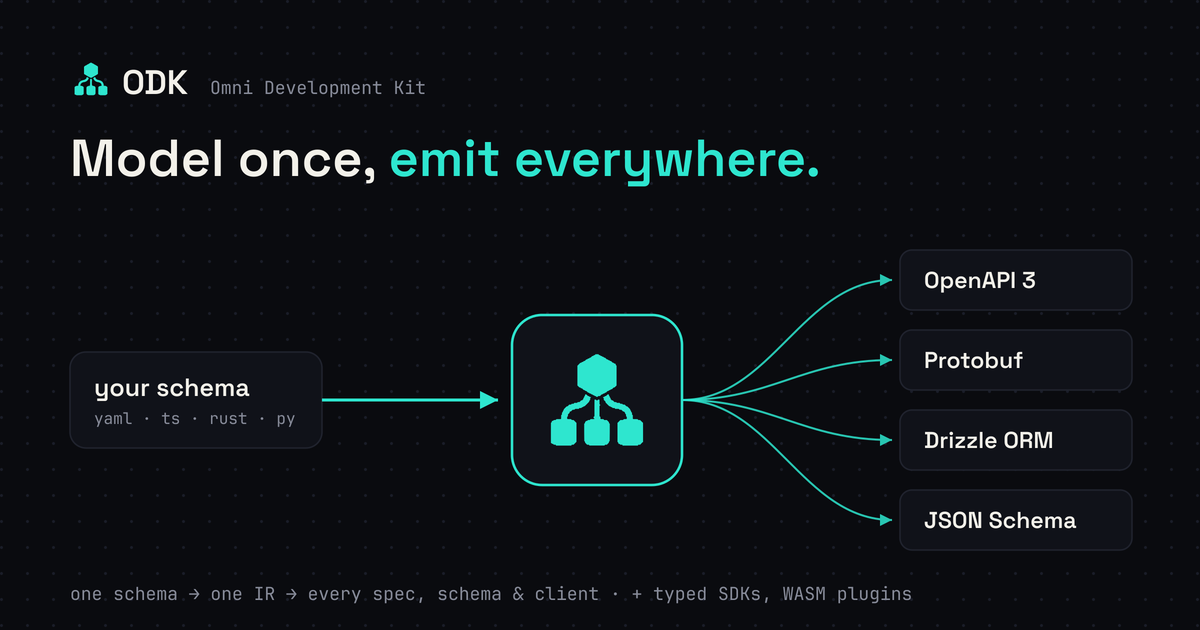
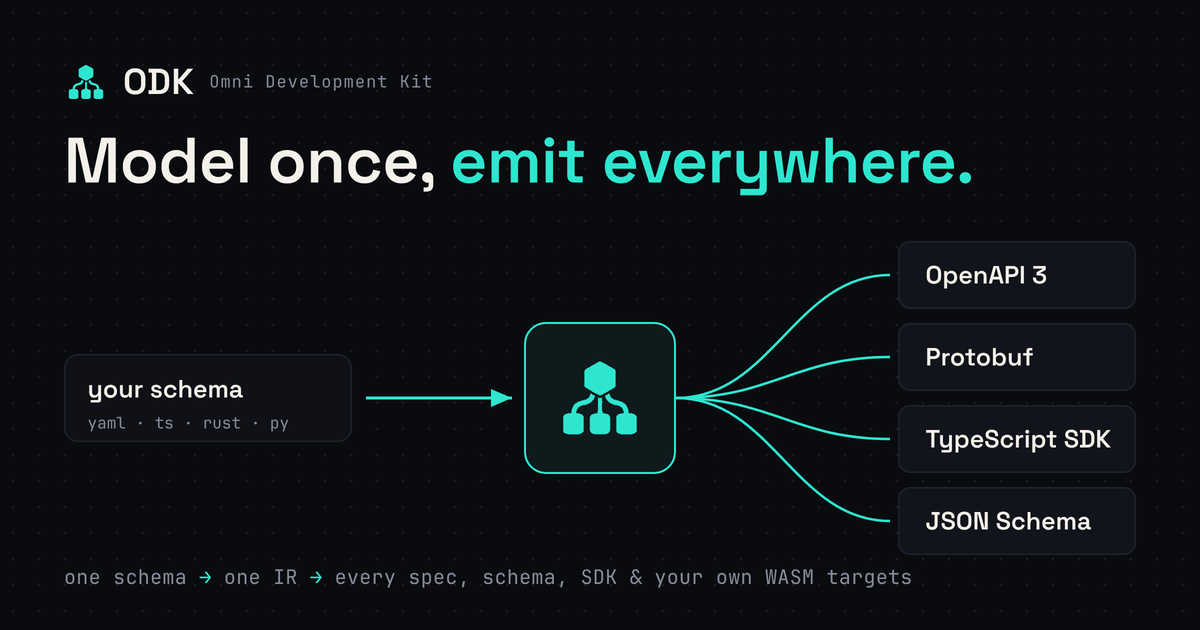
feat(landing): refresh OG image and hero pipeline
- rebuild the OG from a committed source (og/og.html): the real ODK mark
  in the lockup and core node, vertically centered lockup, and symmetric
  fan-out to the targets
- swap the Drizzle target for TypeScript SDK in the OG and the hero
  PipelineDiagram so the headline targets lead with the SDK story

diff --git a/og/og.html b/og/og.html
@@ -1,0 +1,92 @@
+<!doctype html>
+<html>
+<head>
+<meta charset="utf-8">
+<style>
+  :root{
+    --bg:#0a0b0f; --panel:#12141b; --panel2:#0f1117;
+    --teal:#2ee6cf; --cream:#f3f1ea; --muted:#878b99; --line:#20232e;
+  }
+  *{margin:0;padding:0;box-sizing:border-box}
+  html,body{width:1200px;height:630px}
+  body{
+    position:relative;background:var(--bg);overflow:hidden;
+    font-family:"Space Grotesk Sb","Space Grotesk Md",sans-serif;
+    background-image:radial-gradient(circle, #ffffff14 1px, transparent 1.4px);
+    background-size:26px 26px;background-position:0 0;
+  }
+  .mono{font-family:"JetBrainsMono Nerd Font Mono","JetBrains Mono",monospace}
+  .mark{color:var(--teal)}
+
+  .lockup{position:absolute;top:60px;left:64px;display:flex;align-items:center;gap:15px}
+  .lockup .mark{width:44px;height:44px}
+  .lockup .odk{font-size:36px;font-weight:700;color:var(--cream);letter-spacing:.5px;line-height:1}
+  .lockup .sub{font-size:17px;color:var(--muted);letter-spacing:1px;line-height:1}
+
+  .headline{position:absolute;top:120px;left:64px;font-size:64px;font-weight:700;color:var(--cream);letter-spacing:-.5px}
+  .headline .t{color:var(--teal)}
+
+  .schema{position:absolute;left:64px;top:354px;width:288px;height:88px;border:1.5px solid var(--line);border-radius:14px;background:var(--panel2);padding:20px 22px}
+  .schema .lbl{font-size:25px;font-weight:600;color:var(--cream);line-height:1.1}
+  .schema .types{font-size:16px;color:var(--muted);margin-top:9px;letter-spacing:0;white-space:nowrap}
+
+  .ir{position:absolute;left:524px;top:322px;width:152px;height:152px;border:2px solid var(--teal);border-radius:22px;background:#0e1a1c;display:flex;align-items:center;justify-content:center}
+  .ir .mark{width:94px;height:94px}
+
+  .target{position:absolute;left:898px;width:238px;height:68px;border:1.5px solid var(--line);border-radius:12px;background:var(--panel);display:flex;align-items:center;padding-left:26px;font-size:25px;font-weight:600;color:var(--cream)}
+  .t0{top:241px}.t1{top:323px}.t2{top:405px}.t3{top:487px}
+
+  .caption{position:absolute;left:64px;bottom:40px;font-size:20px;color:var(--muted);letter-spacing:.3px}
+  .caption .ar{color:var(--teal)}
+  svg.wires{position:absolute;inset:0;width:1200px;height:630px}
+</style>
+</head>
+<body>
+  <!-- real ODK mark, defined once -->
+  <svg width="0" height="0" style="position:absolute" aria-hidden="true">
+    <symbol id="odkmark" viewBox="0 0 1024 1024">
+      <g transform="translate(0,1024) scale(0.1,-0.1)" fill="currentColor" stroke="none">
+        <path d="M4970 9066 c0 -33 -21 -47 -77 -52 -30 -3 -52 -10 -58 -21 -24 -40 -46 -53 -86 -53 -37 0 -46 -6 -114 -75 -68 -68 -78 -75 -114 -75 -34 0 -44 -5 -67 -35 -23 -31 -32 -35 -71 -35 -38 0 -49 -5 -78 -37 -27 -30 -40 -36 -70 -35 -33 1 -44 -6 -110 -73 -68 -69 -77 -75 -114 -75 -28 0 -46 -6 -58 -20 -10 -11 -26 -29 -35 -40 -13 -14 -30 -20 -62 -20 -38 0 -47 -4 -70 -35 -24 -31 -32 -35 -72 -35 -33 0 -49 -5 -62 -21 -9 -12 -65 -70 -124 -129 l-108 -108 0 -856 0 -856 90 -90 c78 -78 95 -90 124 -90 48 0 65 -8 82 -41 13 -26 20 -29 60 -29 43 0 49 -3 118 -75 67 -69 76 -75 113 -75 34 0 45 -6 76 -40 31 -35 41 -40 78 -40 39 0 46 -5 110 -72 62 -65 73 -72 111 -74 35 -2 47 -8 71 -38 24 -30 35 -36 67 -36 52 0 68 -8 86 -41 13 -25 20 -29 60 -29 39 0 50 -5 84 -40 32 -33 46 -40 77 -40 44 0 52 -5 76 -42 15 -24 24 -28 62 -28 38 0 49 -5 84 -40 29 -30 47 -40 71 -40 24 0 42 10 71 40 39 40 40 40 116 40 l76 0 73 75 c69 72 75 75 118 75 40 0 47 3 60 29 18 33 34 41 86 41 32 0 43 6 67 36 24 30 36 36 71 38 38 2 49 9 111 74 64 67 71 72 110 72 37 0 47 5 78 40 32 35 42 40 79 40 37 0 46 5 70 35 23 31 32 35 70 35 32 0 49 6 63 21 10 12 25 28 34 37 8 8 24 24 36 36 11 11 28 29 36 39 10 11 29 17 55 17 37 0 47 7 130 90 l90 90 0 858 0 858 -35 31 c-30 27 -35 37 -35 76 0 53 -10 63 -74 70 -33 3 -54 11 -63 23 -34 48 -44 54 -84 54 -39 0 -47 5 -115 75 -67 69 -76 75 -113 75 -30 0 -46 6 -59 21 -36 44 -44 49 -83 49 -33 0 -46 7 -79 40 -32 32 -45 39 -75 38 -32 -1 -43 6 -104 70 -63 67 -72 72 -110 72 -41 0 -52 7 -93 58 -14 17 -29 22 -62 22 -40 0 -48 4 -72 35 -23 31 -32 35 -70 35 -43 0 -64 13 -89 53 -6 11 -28 18 -58 21 -56 5 -77 19 -77 52 l0 24 -150 0 -150 0 0 -24z"/>
+        <path d="M4100 5590 c-14 -14 -20 -33 -20 -64 0 -38 -4 -47 -35 -70 -31 -24 -35 -33 -35 -71 0 -38 -5 -47 -37 -72 -29 -24 -37 -37 -39 -69 -1 -21 -2 -44 -3 -51 -1 -6 -14 -19 -29 -28 -15 -9 -35 -30 -44 -46 -15 -25 -23 -29 -63 -29 -44 0 -49 -3 -119 -75 l-73 -75 -76 0 c-64 0 -80 -3 -97 -20 -11 -11 -20 -24 -20 -29 0 -18 -45 -25 -148 -22 l-103 3 -37 -41 -37 -41 -82 0 c-79 0 -83 -1 -100 -27 -26 -41 -31 -43 -115 -43 -66 0 -81 -3 -95 -20 -10 -11 -29 -32 -43 -45 -27 -27 -36 -36 -62 -65 -12 -14 -31 -20 -59 -20 -38 0 -46 -6 -170 -131 -122 -123 -129 -132 -129 -170 0 -38 -6 -47 -54 -87 -10 -8 -16 -29 -16 -53 0 -33 -7 -46 -40 -79 l-40 -39 0 -79 c0 -79 0 -80 -35 -106 l-35 -27 0 -150 c0 -85 -5 -159 -10 -170 -10 -18 -23 -19 -205 -19 -214 0 -192 6 -250 -62 -12 -14 -31 -18 -95 -18 -60 0 -82 -4 -92 -16 -41 -49 -49 -54 -92 -54 -53 0 -67 -14 -71 -76 -3 -50 -22 -74 -57 -74 -17 0 -18 -38 -18 -890 l0 -890 24 0 c17 0 34 -12 52 -35 23 -31 32 -35 70 -35 44 0 52 -5 88 -55 13 -17 24 -20 86 -18 82 3 107 -7 122 -48 l10 -29 664 0 664 0 0 25 c0 39 35 55 116 52 l69 -2 128 127 127 128 0 819 0 820 -125 126 -126 125 -75 0 c-74 0 -75 0 -114 40 l-39 40 -154 0 c-106 0 -157 4 -165 12 -8 8 -12 45 -12 100 0 76 3 89 19 98 45 23 51 39 51 121 0 68 3 82 21 97 12 9 46 41 75 70 49 48 54 58 54 96 0 52 10 62 71 68 40 5 53 13 100 61 30 31 60 63 67 71 10 12 32 16 92 16 67 0 83 3 98 20 9 11 25 29 35 40 16 18 30 20 171 20 l155 0 27 35 26 35 83 0 83 0 29 35 c23 30 36 37 72 40 36 3 52 11 77 40 27 29 40 35 73 35 39 0 47 7 240 201 195 194 201 202 201 241 0 34 6 46 40 77 l40 36 0 77 c0 74 13 108 40 108 5 0 14 10 21 21 16 32 -10 53 -68 55 -34 1 -51 7 -58 20 -23 40 -45 54 -86 54 -37 0 -46 6 -114 75 -65 65 -79 75 -110 75 -22 0 -43 -8 -55 -20z"/>
+        <path d="M5975 5535 c-68 -69 -77 -75 -114 -75 -41 0 -63 -14 -86 -54 -7 -13 -24 -19 -58 -20 -58 -2 -84 -23 -68 -55 7 -11 16 -21 21 -21 27 0 40 -34 40 -108 l0 -77 75 -72 c69 -65 75 -74 75 -111 0 -38 7 -47 165 -206 159 -160 167 -166 206 -166 33 0 46 -6 73 -35 25 -29 41 -37 77 -40 36 -3 49 -10 72 -40 l29 -35 83 0 83 0 26 -35 27 -35 155 0 c142 0 155 -2 172 -20 9 -11 25 -29 35 -40 14 -17 30 -20 97 -20 60 0 82 -4 92 -16 7 -8 37 -40 67 -71 47 -48 61 -57 100 -61 37 -4 53 -13 91 -52 40 -39 48 -54 52 -95 4 -31 13 -54 24 -62 53 -38 54 -40 54 -122 0 -82 6 -98 51 -121 16 -9 19 -22 19 -98 0 -55 -4 -92 -12 -100 -8 -8 -52 -12 -130 -12 -128 0 -116 4 -173 -62 -13 -15 -33 -18 -130 -18 l-114 0 -126 -125 -125 -126 0 -823 0 -824 35 -26 c31 -24 35 -33 35 -71 0 -56 19 -75 75 -75 38 0 47 -5 73 -38 l30 -37 73 2 c84 3 119 -12 119 -52 l0 -25 664 0 664 0 10 29 c14 41 40 51 119 48 l68 -2 87 88 c48 48 92 96 98 106 5 11 23 22 40 26 l30 7 0 849 c0 833 0 849 -19 849 -17 0 -82 58 -142 126 -10 11 -28 29 -40 40 -13 12 -30 29 -37 38 -10 12 -31 16 -92 16 -85 0 -79 -3 -135 63 -13 15 -37 17 -210 17 -182 0 -195 1 -205 19 -5 11 -10 85 -10 170 l0 150 -35 27 c-35 26 -35 27 -35 106 l0 79 -40 39 c-33 33 -40 46 -40 79 0 24 -6 45 -16 53 -48 40 -54 49 -54 87 0 38 -7 47 -129 170 -124 125 -132 131 -170 131 -28 0 -47 6 -58 20 -27 29 -36 38 -63 65 -14 13 -33 34 -42 45 -15 17 -30 20 -95 20 -85 0 -90 2 -116 43 -17 26 -21 27 -100 27 l-82 0 -37 41 -37 41 -103 -3 c-103 -3 -148 4 -148 22 0 5 -9 18 -20 29 -17 17 -33 20 -97 20 l-76 0 -73 75 c-70 72 -75 75 -119 75 -40 0 -48 4 -63 29 -9 16 -29 37 -44 46 -15 9 -28 22 -29 28 -1 7 -2 30 -3 51 -2 32 -10 45 -39 69 -32 25 -37 34 -37 72 0 38 -4 47 -35 71 -31 23 -35 32 -35 70 0 56 -26 84 -75 84 -31 0 -45 -10 -110 -75z"/>
+        <path d="M4912 5148 c-9 -9 -12 -183 -12 -722 l0 -711 -40 -36 c-30 -27 -40 -44 -40 -67 0 -44 9 -61 41 -78 30 -15 40 -56 19 -69 -6 -4 -80 -6 -164 -6 l-152 2 -36 -41 -37 -40 -80 0 c-80 0 -80 0 -107 -35 -23 -31 -32 -35 -70 -35 -32 0 -49 -6 -63 -21 -10 -12 -25 -28 -33 -36 -9 -9 -25 -24 -37 -34 -15 -14 -21 -31 -21 -63 0 -38 -4 -47 -35 -70 l-35 -27 0 -747 c0 -411 4 -752 8 -757 4 -6 19 -18 35 -28 23 -15 27 -24 27 -62 0 -42 4 -48 92 -137 l92 -93 70 2 c78 3 112 -11 118 -49 l3 -23 665 0 665 0 3 23 c6 38 40 52 118 49 l70 -2 92 93 c88 89 92 95 92 137 0 38 4 47 28 62 15 10 30 22 34 28 4 5 8 346 8 757 l0 747 -35 27 c-31 23 -35 32 -35 70 0 42 -25 84 -49 84 -6 0 -18 13 -27 29 -10 16 -27 35 -39 41 -12 6 -29 25 -39 41 l-17 29 -120 0 -120 0 -36 40 -36 40 -117 0 c-77 0 -120 4 -128 12 -7 7 -12 43 -12 91 l0 79 -40 37 -40 36 0 447 0 447 35 27 c19 14 35 34 35 44 0 10 -16 30 -35 44 l-35 27 0 193 c0 136 -3 195 -12 204 -7 7 -33 12 -59 12 -43 0 -51 -4 -75 -35 -24 -31 -31 -35 -74 -35 -43 0 -50 4 -74 35 -24 31 -32 35 -75 35 -26 0 -52 -5 -59 -12z"/>
+      </g>
+    </symbol>
+  </svg>
+
+  <svg class="wires" viewBox="0 0 1200 630" fill="none">
+    <defs>
+      <marker id="ah" markerWidth="10" markerHeight="10" refX="7" refY="3" orient="auto">
+        <path d="M0,0 L7,3 L0,6 Z" fill="#2ee6cf"/>
+      </marker>
+    </defs>
+    <line x1="366" y1="398" x2="512" y2="398" stroke="#2ee6cf" stroke-width="3" marker-end="url(#ah)"/>
+    <path d="M676,398 C772,398 795,275 890,275" stroke="#2ee6cf" stroke-width="2.5"/>
+    <path d="M676,398 C772,398 795,357 890,357" stroke="#2ee6cf" stroke-width="2.5"/>
+    <path d="M676,398 C772,398 795,439 890,439" stroke="#2ee6cf" stroke-width="2.5"/>
+    <path d="M676,398 C772,398 795,521 890,521" stroke="#2ee6cf" stroke-width="2.5"/>
+  </svg>
+
+  <div class="lockup">
+    <svg class="mark"><use href="#odkmark"/></svg>
+    <span class="odk">ODK</span>
+    <span class="sub mono">Omni Development Kit</span>
+  </div>
+
+  <div class="headline">Model once, <span class="t">emit everywhere.</span></div>
+
+  <div class="schema">
+    <div class="lbl">your schema</div>
+    <div class="types mono">yaml · ts · rust · py</div>
+  </div>
+
+  <div class="ir"><svg class="mark"><use href="#odkmark"/></svg></div>
+
+  <div class="target t0">OpenAPI 3</div>
+  <div class="target t1">Protobuf</div>
+  <div class="target t2">TypeScript SDK</div>
+  <div class="target t3">JSON Schema</div>
+
+  <div class="caption mono">one schema <span class="ar">&#8594;</span> one IR <span class="ar">&#8594;</span> every spec, schema, SDK &amp; your own WASM targets</div>
+</body>
+</html>

diff --git a/src/components/landing/PipelineDiagram.tsx b/src/components/landing/PipelineDiagram.tsx
@@ -2,7 +2,7 @@ import {
   Binary,
   Blocks,
   Braces,
-  Database,
+  Code,
   FileText,
   FileType2,
   Network,
@@ -82,8 +82,8 @@ const targets: (Node & { flareBegin: string })[] = [
   },
   {
     y: 185,
-    label: "Drizzle + SDKs",
-    icon: Database,
+    label: "TypeScript SDK",
+    icon: Code,
     wire: "M536 154 C616 168 676 202 748 202",
     pulseBegin: "2.05s",
     flareBegin: "3.25s",
@@ -103,7 +103,7 @@ const PipelineDiagram = () => (
     viewBox="0 0 960 300"
     className="h-auto w-full"
     role="img"
-    aria-label="One schema compiles through the ODK core into OpenAPI, JSON Schema, Protobuf, Drizzle, typed SDKs, and your own WASM emitters"
+    aria-label="One schema compiles through the ODK core into OpenAPI, JSON Schema, Protobuf, TypeScript SDKs, and your own WASM emitters"
   >
     <defs>
       <marker

diff --git a/og/README.md b/og/README.md
@@ -1,0 +1,11 @@
+# OG image source
+
+`og.html` is the source for `public/og.png` (1200x630 social preview).
+
+Render (requires Space Grotesk + JetBrains Mono installed locally):
+
+```sh
+chromium --headless --no-sandbox --force-device-scale-factor=2 \
+  --window-size=1200,630 --screenshot=/tmp/og@2x.png og/og.html
+convert /tmp/og@2x.png -resize 1200x630 public/og.png
+```
